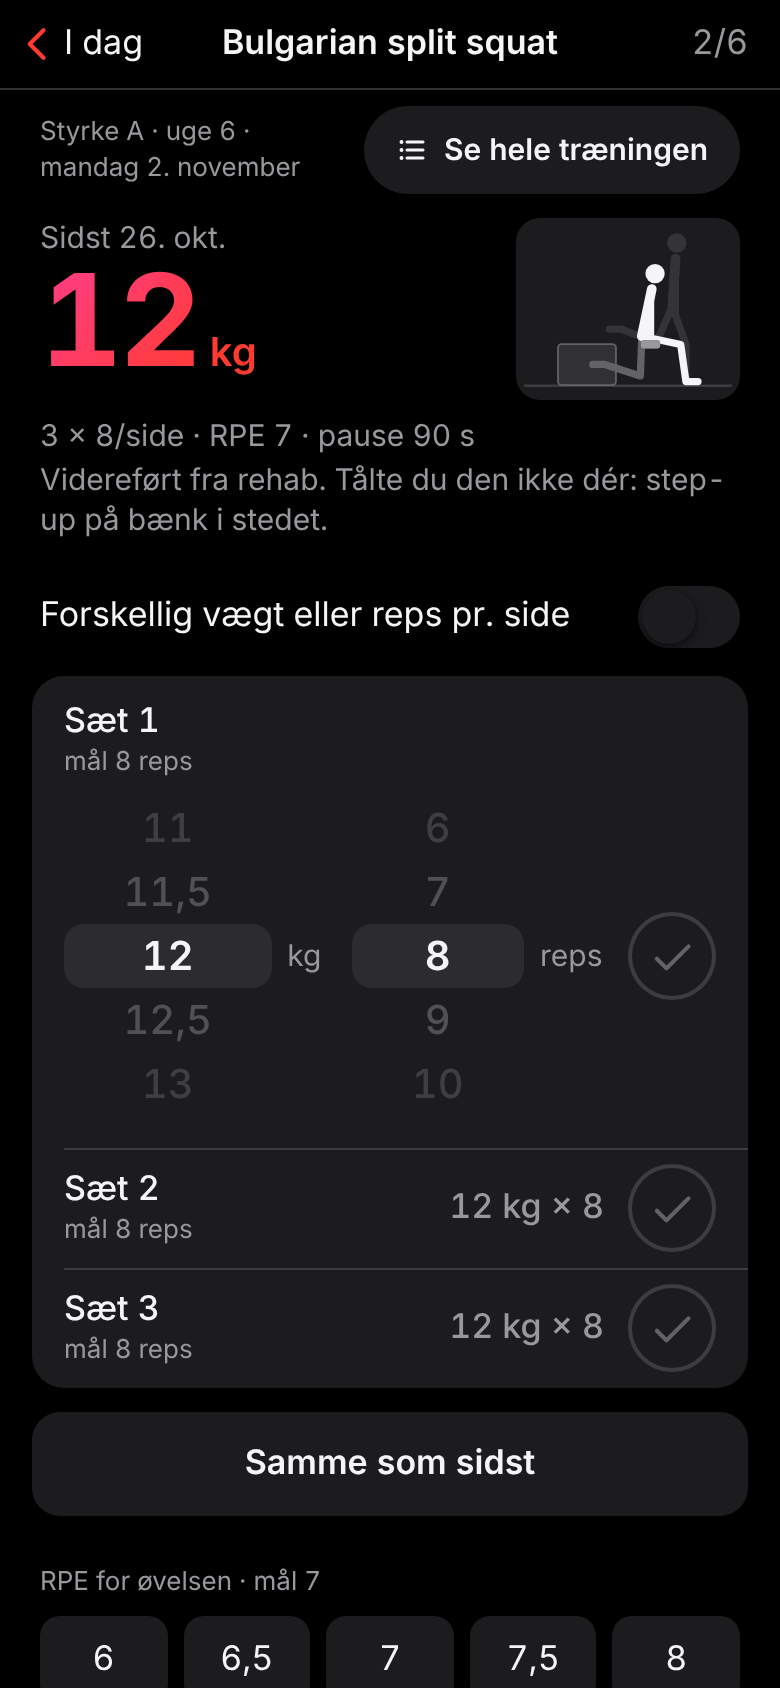
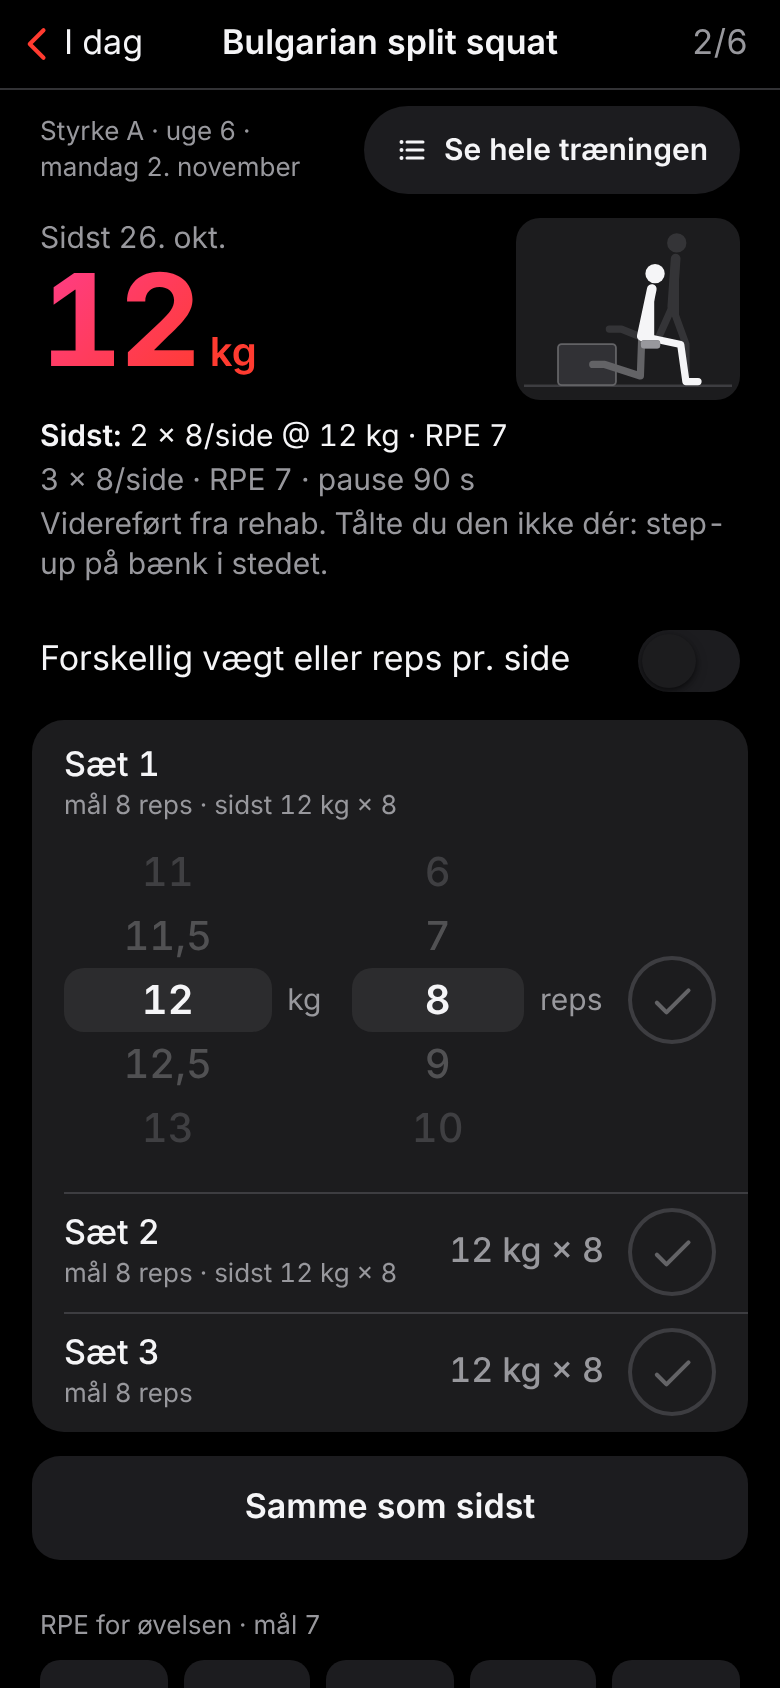
Se sidste gangs vægt og reps under logningen
Øverst ved øvelsen står alle sættene fra sidst ("Sidst: 3 × 8 @ 50 kg · RPE 7"),
og hvert sæt viser hvad samme sæt var sidst ("mål 8 reps · sidst 50 kg × 8").
Teksten står fast, også når talhjulene drejes, så man kan se hvad man skal øge fra.

Claude-Session: https://claude.ai/code/session_01VPVVKhCK5kkwTETcgAK8Gg

diff --git a/src/components/ExerciseBlock.tsx b/src/components/ExerciseBlock.tsx
@@ -8,7 +8,7 @@ import { useExerciseHistory } from '../data/history';
 import { startTimer } from '../data/timer';
 import { upsertExerciseNote, upsertSet, useLastTime } from '../data/workouts';
 import { formatShort } from '../lib/dates';
-import { ghostFor } from '../logic/lastTime';
+import { ghostFor, previousSet, summarizeSets } from '../logic/lastTime';
 import { formatDecimal } from '../logic/numbers';
 import { restAfter } from '../logic/rest';
 import { bestScore, setScore, weightStep } from '../logic/wheel';
@@ -35,8 +35,8 @@ function heroOf(sets: Values[], kind: Exercise['kind']): { value: string; unit: 
 }
 
 /**
- * Én øvelse i logningen: sidste gangs tal som heltetal, sættene med talhjul, "Samme som sidst"
- * og RPE/note. Slår et sæt rekorden (vægt × reps), ruller heltetallet til det nye tal.
+ * Én øvelse i logningen: sidste gangs tal som heltetal og alle sættene fra sidst som tekst (så man
+ * kan se hvad man skal øge), sættene med talhjul, "Samme som sidst" og RPE/note. Slår et sæt rekorden (vægt × reps), ruller heltetallet til det nye tal.
  */
 export function ExerciseBlock({
   plan,
@@ -140,7 +140,13 @@ export function ExerciseBlock({
             }
           />
         </div>
-        <p className="num mt-2 text-secondary text-ink-2">{meta}</p>
+        {last && (
+          <p className="num mt-2 text-secondary">
+            <span className="font-semibold">Sidst{record ? ` ${formatShort(last.workout.date)}` : ''}:</span>{' '}
+            {[summarizeSets(last.sets, exercise.kind), last.rpe != null && `RPE ${formatDecimal(last.rpe)}`].filter(Boolean).join(' · ')}
+          </p>
+        )}
+        <p className={`num ${last ? 'mt-0.5' : 'mt-2'} text-secondary text-ink-2`}>{meta}</p>
         {(dose.tempo || dose.note) && <p className="mt-0.5 text-secondary">{[dose.tempo, dose.note].filter(Boolean).join(' · ')}</p>}
         {!useAlt && resolved.planned.cue && <p className="mt-0.5 text-secondary text-ink-2">{resolved.planned.cue}</p>}
         {last?.note && <p className="mt-0.5 text-secondary text-ink-2">Sidst: “{last.note}”</p>}
@@ -185,6 +191,7 @@ export function ExerciseBlock({
               ghost={ghostFor(last, round.rows[0].side, round.setNo)}
               active={i === active}
               targetText={round.rows.length > 1 ? roundTarget(round, exercise.kind) : undefined}
+              previous={previousSet(last, round.rows.map((r) => r.side), round.setNo, exercise.kind)}
               onActivate={() => setPicked(i)}
               onPatch={write}
               onDone={(done, values) => {

diff --git a/test/logic.test.ts b/test/logic.test.ts
@@ -3,7 +3,7 @@ import planJson from '../plan/plan.v1.json';
 import { PlanSchema } from '../shared/plan.schema';
 import type { SetLog, Workout } from '../shared/records.schema';
 import { resolveStrengthSession } from '../shared/resolve';
-import { ghostFor, pickLastTime, summarizeSets } from '../src/logic/lastTime';
+import { ghostFor, pickLastTime, previousSet, summarizeSets } from '../src/logic/lastTime';
 import { formatDecimal, parseDecimal, sanitizeDecimal } from '../src/logic/numbers';
 import { restAfter } from '../src/logic/rest';
 import { deterministicUuid } from '../src/logic/uuid';
@@ -88,6 +88,17 @@ describe('sidste gang', () => {
     const last = pickLastTime('enbens-rdl', { uuid: C, date: '2026-10-12' }, workouts, sets, []);
     expect(ghostFor(last, 'V', 2)).toEqual({ weight_kg: 12.5, reps: 7, seconds: null });
     expect(ghostFor(last, 'H', 3)).toEqual({ weight_kg: 12.5, reps: 8, seconds: null });
+  });
+
+  it('viser sættet fra sidst: kun samme sætnummer, begge sider samlet', () => {
+    const last = pickLastTime('enbens-rdl', { uuid: C, date: '2026-10-12' }, workouts, sets, []);
+    expect(previousSet(last, ['H'], 1, 'weight_reps')).toBe('12,5 kg × 8');
+    expect(previousSet(last, ['H', 'V'], 1, 'weight_reps')).toBe('12,5 kg × 8');
+    expect(previousSet(last, ['H', 'V'], 2, 'weight_reps')).toBe('H 12,5 kg × 8 / V 12,5 kg × 7');
+    expect(previousSet(last, ['H'], 3, 'weight_reps')).toBeUndefined();
+    expect(previousSet(undefined, ['H'], 1, 'weight_reps')).toBeUndefined();
+    const bodyweight = pickLastTime('enbens-rdl', { uuid: C, date: '2026-10-12' }, [workout(A, '2026-09-28')], [set(A, 1, null, null, 12)], [])!;
+    expect(previousSet(bodyweight, [null], 1, 'bodyweight_reps')).toBe('12 reps');
   });
 
   it('opsummerer sæt', () => {

diff --git a/src/components/SetRow.tsx b/src/components/SetRow.tsx
@@ -30,8 +30,9 @@ export function describeSet(v: SetValues, kind: ExerciseKind) {
 
 /**
  * Ét sæt. Det aktive sæt viser talhjul (vægt og reps, eller sekunder) centreret på sidste
- * gangs værdi, så et sæt magen til sidst er ét tryk på ✓. De øvrige er en kort linje; tryk
- * på linjen gør sættet aktivt.
+ * gangs værdi, så et sæt magen til sidst er ét tryk på ✓. Under målet står hvad sættet var
+ * sidst, så man kan se hvad man skal slå. De øvrige er en kort linje; tryk på linjen gør
+ * sættet aktivt.
  */
 export function SetRow({
   row,
@@ -44,6 +45,7 @@ export function SetRow({
   onPatch,
   onDone,
   targetText,
+  previous,
 }: {
   row: Row;
   kind: ExerciseKind;
@@ -58,6 +60,8 @@ export function SetRow({
   onDone: (done: boolean, values: SetValues) => void;
   /** Målet som tekst, fx "12 H / 10 V reps" for en runde med begge sider. */
   targetText?: string;
+  /** Sættet sidste gang, fx "50 kg × 8". Står fast, også når hjulene drejes. */
+  previous?: string;
 }) {
   const [values, setValues] = useState(() => initial(log, ghost, row));
   // Optimistisk ✓, så to hurtige tryk ikke læser en forældet værdi.
@@ -85,7 +89,15 @@ export function SetRow({
         {row.side && <span className="text-ink-2"> · {sideName(row.side)}</span>}
       </span>
       <span className="num block text-footnote text-ink-2">
-        {row.optional ? 'valgfrit · ' : ''}mål {target}
+        <span className="whitespace-nowrap">
+          {row.optional ? 'valgfrit · ' : ''}mål {target}
+        </span>
+        {previous && (
+          <>
+            {' · '}
+            <span className="whitespace-nowrap">sidst {previous}</span>
+          </>
+        )}
       </span>
     </span>
   );

diff --git a/src/logic/lastTime.ts b/src/logic/lastTime.ts
@@ -52,6 +52,28 @@ export function ghostFor(last: LastTime | undefined, side: Side | null, setNo: n
   return s && { weight_kg: s.weight_kg, reps: s.reps, seconds: s.seconds };
 }
 
+/** "50 kg × 8", "8 reps" eller "30 sek". */
+function formatSet(s: SetLog, kind: ExerciseKind): string {
+  if (kind === 'time') return `${s.seconds ?? '?'} sek`;
+  return s.weight_kg ? `${formatDecimal(s.weight_kg)} kg × ${s.reps ?? '?'}` : `${s.reps ?? '?'} reps`;
+}
+
+/**
+ * Hvad sættet var sidst, til at sammenligne med i dag: kun samme sætnummer (ingen fallback som
+ * ghostFor). En runde med begge sider giver "12 kg × 8", eller "H 12 kg × 8 / V 12 kg × 7" hvis
+ * siderne var forskellige.
+ */
+export function previousSet(last: LastTime | undefined, sides: (Side | null)[], setNo: number, kind: ExerciseKind): string | undefined {
+  if (!last) return undefined;
+  const per = sides
+    .map((side) => ({ side, set: last.sets.find((s) => s.side === side && s.set_no === setNo) }))
+    .filter((p): p is { side: Side | null; set: SetLog } => !!p.set)
+    .map((p) => ({ side: p.side, text: formatSet(p.set, kind) }));
+  if (!per.length) return undefined;
+  if (per.every((p) => p.text === per[0].text)) return per[0].text;
+  return per.map((p) => `${p.side} ${p.text}`).join(' / ');
+}
+
 function describe(sets: SetLog[], kind: ExerciseKind): string {
   const groups: { n: number; key: string }[] = [];
   for (const s of sets) {
